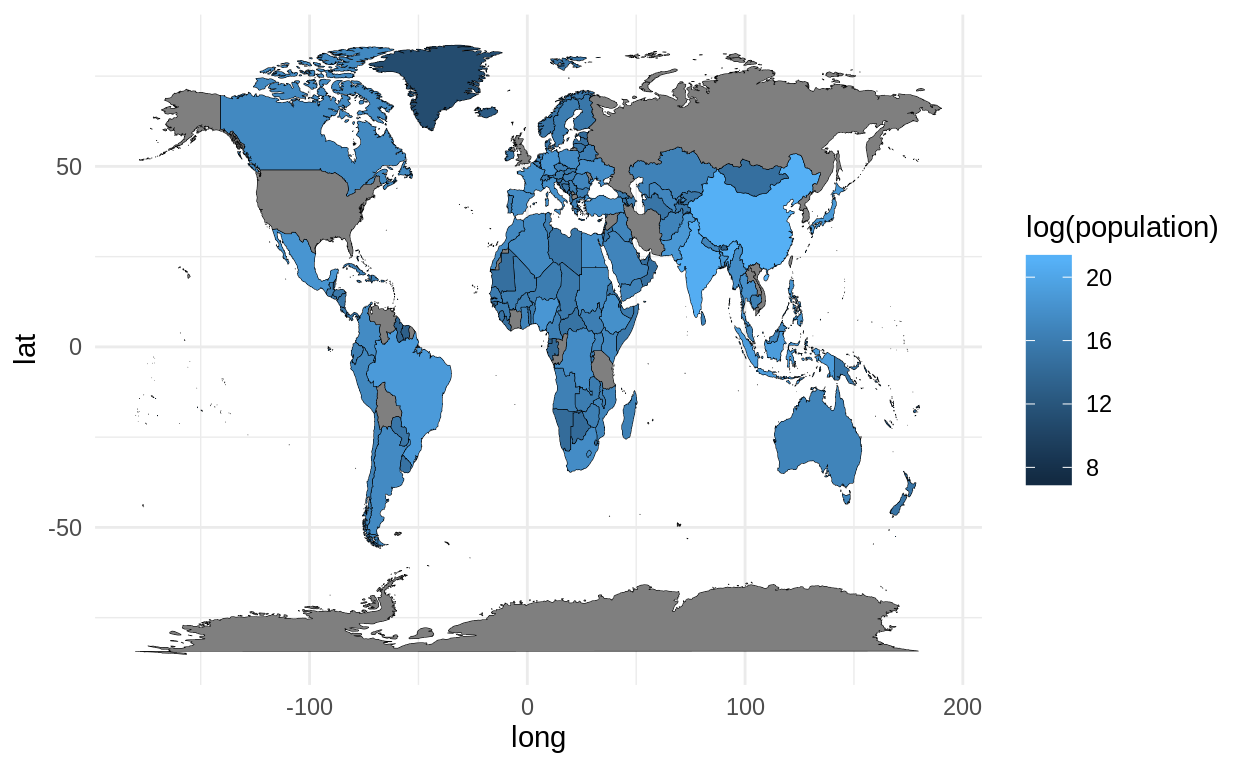
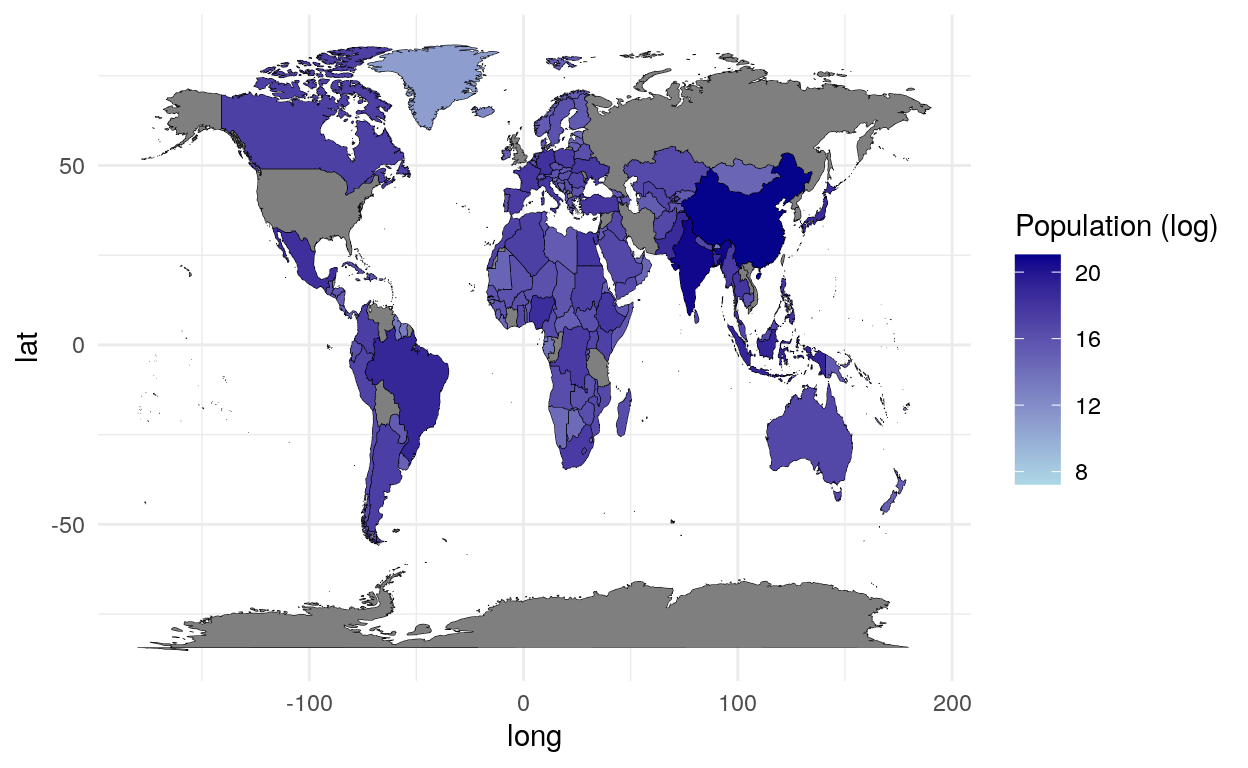
deprecated

diff --git a/docs/posts/2019-11-29-map/index.html b/docs/posts/2019-11-29-map/index.html
@@ -26,8 +26,8 @@
 <link rel="canonical" href="https://shohei-doi.github.io/notes/posts/2019-11-29-map/"/>
 
 <!--  https://schema.org/Article -->
-<meta property="article:published" itemprop="datePublished" content="2019-11-30"/>
-<meta property="article:created" itemprop="dateCreated" content="2019-11-30"/>
+<meta property="article:published" itemprop="datePublished" content="2020-04-24"/>
+<meta property="article:created" itemprop="dateCreated" content="2020-04-24"/>
 <meta name="article:author" content="土井　翔平"/>
 
 <!--  https://developers.facebook.com/docs/sharing/webmasters#markup -->
@@ -55,7 +55,7 @@
   <!--radix_placeholder_rmarkdown_metadata-->
 
 <script type="text/json" id="radix-rmarkdown-metadata">
-{"type":"list","attributes":{"names":{"type":"character","attributes":{},"value":["title","description","author","date","output","categories","twitter","canonical_url"]}},"value":[{"type":"character","attributes":{},"value":["データの可視化：地図"]},{"type":"character","attributes":{},"value":["Rで地図や空間データのグラフを作成する方法を紹介します。"]},{"type":"list","attributes":{},"value":[{"type":"list","attributes":{"names":{"type":"character","attributes":{},"value":["name","affiliation"]}},"value":[{"type":"character","attributes":{},"value":["土井　翔平"]},{"type":"character","attributes":{},"value":["国立情報学研究所"]}]}]},{"type":"character","attributes":{},"value":["2019-11-30"]},{"type":"list","attributes":{"names":{"type":"character","attributes":{},"value":["distill::distill_article"]}},"value":[{"type":"list","attributes":{"names":{"type":"character","attributes":{},"value":["self_contained","toc","toc_depth"]}},"value":[{"type":"logical","attributes":{},"value":[false]},{"type":"logical","attributes":{},"value":[true]},{"type":"integer","attributes":{},"value":[2]}]}]},{"type":"character","attributes":{},"value":["data analysis","data visualization"]},{"type":"list","attributes":{"names":{"type":"character","attributes":{},"value":["creator"]}},"value":[{"type":"character","attributes":{},"value":["@sdoi0504"]}]},{"type":"character","attributes":{},"value":["https://shohei-doi.github.io/notes/posts/2019-11-29-map/"]}]}
+{"type":"list","attributes":{"names":{"type":"character","attributes":{},"value":["title","description","author","date","output","categories","twitter","canonical_url"]}},"value":[{"type":"character","attributes":{},"value":["データの可視化：地図"]},{"type":"character","attributes":{},"value":["Rで地図や空間データのグラフを作成する方法を紹介します。"]},{"type":"list","attributes":{},"value":[{"type":"list","attributes":{"names":{"type":"character","attributes":{},"value":["name","affiliation"]}},"value":[{"type":"character","attributes":{},"value":["土井　翔平"]},{"type":"character","attributes":{},"value":["国立情報学研究所"]}]}]},{"type":"character","attributes":{},"value":["2020-04-24"]},{"type":"list","attributes":{"names":{"type":"character","attributes":{},"value":["distill::distill_article"]}},"value":[{"type":"list","attributes":{"names":{"type":"character","attributes":{},"value":["self_contained","toc","toc_depth"]}},"value":[{"type":"logical","attributes":{},"value":[false]},{"type":"logical","attributes":{},"value":[true]},{"type":"integer","attributes":{},"value":[2]}]}]},{"type":"character","attributes":{},"value":["data analysis","data visualization"]},{"type":"list","attributes":{"names":{"type":"character","attributes":{},"value":["creator"]}},"value":[{"type":"character","attributes":{},"value":["@sdoi0504"]}]},{"type":"character","attributes":{},"value":["https://shohei-doi.github.io/notes/posts/2019-11-29-map/"]}]}
 </script>
 <!--/radix_placeholder_rmarkdown_metadata-->
   
@@ -1297,7 +1297,7 @@ gtag('config', 'UA-75879658-3');
 <!--radix_placeholder_front_matter-->
 
 <script id="distill-front-matter" type="text/json">
-{"title":"データの可視化：地図","description":"Rで地図や空間データのグラフを作成する方法を紹介します。","authors":[{"author":"土井　翔平","authorURL":"#","affiliation":"国立情報学研究所","affiliationURL":"#"}],"publishedDate":"2019-11-30T00:00:00.000+09:00","citationText":"翔平, 2019"}
+{"title":"データの可視化：地図","description":"Rで地図や空間データのグラフを作成する方法を紹介します。","authors":[{"author":"土井　翔平","authorURL":"#","affiliation":"国立情報学研究所","affiliationURL":"#"}],"publishedDate":"2020-04-24T00:00:00.000+09:00","citationText":"翔平, 2020"}
 </script>
 
 <!--/radix_placeholder_front_matter-->
@@ -1328,7 +1328,7 @@ gtag('config', 'UA-75879658-3');
 <div class="d-byline">
   土井　翔平  (国立情報学研究所)
   
-<br/>2019-11-30
+<br/>2020-04-24
 </div>
 
 <div class="d-article">
@@ -1350,16 +1350,16 @@ gtag('config', 'UA-75879658-3');
 <pre class="r"><code>
 library(tidyverse)</code></pre>
 <pre><code>
-── Attaching packages ───────────────────────────────────────────────────────────── tidyverse 1.3.0 ──</code></pre>
+── Attaching packages ────────────────────────────────────────────────────────────────────────────────────────────────────────────────── tidyverse 1.3.0 ──</code></pre>
 <pre><code>
-✔ ggplot2 3.2.1     ✔ purrr   0.3.3
-✔ tibble  2.1.3     ✔ dplyr   0.8.3
-✔ tidyr   1.0.0     ✔ stringr 1.4.0
-✔ readr   1.3.1     ✔ forcats 0.4.0</code></pre>
+✓ ggplot2 3.3.0     ✓ purrr   0.3.4
+✓ tibble  3.0.1     ✓ dplyr   0.8.5
+✓ tidyr   1.0.2     ✓ stringr 1.4.0
+✓ readr   1.3.1     ✓ forcats 0.5.0</code></pre>
 <pre><code>
-── Conflicts ──────────────────────────────────────────────────────────────── tidyverse_conflicts() ──
-✖ dplyr::filter() masks stats::filter()
-✖ dplyr::lag()    masks stats::lag()</code></pre>
+── Conflicts ───────────────────────────────────────────────────────────────────────────────────────────────────────────────────── tidyverse_conflicts() ──
+x dplyr::filter() masks stats::filter()
+x dplyr::lag()    masks stats::lag()</code></pre>
 <pre class="r"><code>
 library(maps)</code></pre>
 <pre><code>
@@ -1445,7 +1445,7 @@ head(jpnprefs)</code></pre>
 <pre><code>
 # A tibble: 6 x 11
   jis_code prefecture capital region major_island prefecture_en capital_en region_en major_island_en
-  &lt;chr&gt;    &lt;chr&gt;      &lt;chr&gt;   &lt;chr&gt;  &lt;chr&gt;        &lt;chr&gt;         &lt;chr&gt;      &lt;chr&gt;     &lt;chr&gt;          
+  &lt;chr&gt;    &lt;fct&gt;      &lt;chr&gt;   &lt;chr&gt;  &lt;chr&gt;        &lt;chr&gt;         &lt;chr&gt;      &lt;chr&gt;     &lt;chr&gt;          
 1 01       北海道     札幌市  北海道 北海道       Hokkaido      Sapporo-s… Hokkaido  Hokkaido       
 2 02       青森県     青森市  東北   本州         Aomori-ken    Aomori-shi Tohoku    Honshu         
 3 03       岩手県     盛岡市  東北   本州         Iwate-ken     Morioka-s… Tohoku    Honshu         
@@ -1464,16 +1464,15 @@ Simple feature collection with 6 features and 4 fields
 geometry type:  POLYGON
 dimension:      XY
 bbox:           xmin: 135.6469 ymin: 34.96986 xmax: 135.8608 ymax: 35.32086
-epsg (SRID):    4326
-proj4string:    +proj=longlat +datum=WGS84 +no_defs
+CRS:            EPSG:4326
 # A tibble: 6 x 5
   pref_code prefecture city_code city                                                       geometry
   &lt;chr&gt;     &lt;chr&gt;      &lt;chr&gt;     &lt;chr&gt;                                                 &lt;POLYGON [°]&gt;
-1 26        京都府     26101     京都市 北区… ((135.7254 35.1709, 135.7309 35.16995, 135.7341 35.16225…
+1 26        京都府     26101     京都市 北区… ((135.7254 35.17089, 135.7309 35.16995, 135.7341 35.1622…
 2 26        京都府     26102     京都市 上京区… ((135.7507 35.03831, 135.7643 35.03754, 135.7699 35.0327…
-3 26        京都府     26103     京都市 左京区… ((135.8048 35.31718, 135.8088 35.31697, 135.8111 35.3140…
-4 26        京都府     26104     京都市 中京区… ((135.7319 35.02261, 135.7358 35.0189, 135.7412 35.02008…
-5 26        京都府     26105     京都市 東山区… ((135.7847 35.01045, 135.7912 35.00916, 135.7869 35.0056…
+3 26        京都府     26103     京都市 左京区… ((135.8048 35.31718, 135.8088 35.31696, 135.8111 35.3140…
+4 26        京都府     26104     京都市 中京区… ((135.7319 35.0226, 135.7357 35.01889, 135.7412 35.02008…
+5 26        京都府     26105     京都市 東山区… ((135.7847 35.01044, 135.7912 35.00916, 135.7868 35.0056…
 6 26        京都府     26106     京都市 下京区… ((135.7702 35.00438, 135.7716 35.00361, 135.7674 34.9927…</code></pre>
 </div>
 <p>今回は市区町村の境界線がsimple features (sf)と呼ばれる規格なので、<code>geom_sf()</code>を使います。</p>
@@ -1510,18 +1509,36 @@ pop2013 &lt;- population %&gt;%
 <ul>
 <li><code>population</code>では国名が<code>country</code>ですが、<code>world</code>では<code>region</code>なので、<code>rename()</code>で後者に合わせます。</li>
 </ul>
-<p>先程のデータと<code>world</code>をマージして、<code>aes()</code>の中の<code>fill</code>で塗り分けする変数を指定します。</p>
+<p>先程のデータと<code>world</code>をマージして、<code>aes()</code>の中の<code>fill</code>で塗り分けする変数を指定します。 それぞれのデータセットで国名が異なっているので、<code>coutnrycode</code>というパッケージでISOコードに合わせます。</p>
+<ul>
+<li><a href="https://dainachiba.github.io/">千葉大奈先生</a>にご指摘いただきました。</li>
+</ul>
 <div class="layout-chunk" data-layout="l-body">
+<pre class="r"><code>
+pop2013 &lt;- pop2013 %&gt;% 
+  mutate(iso3c = countrycode(sourcevar = region, origin = &quot;country.name&quot;, destination = &quot;iso3c&quot;))</code></pre>
+<pre><code>
+Error in countrycode(sourcevar = region, origin = &quot;country.name&quot;, destination = &quot;iso3c&quot;): could not find function &quot;countrycode&quot;</code></pre>
+<pre class="r"><code>
+world &lt;- world %&gt;% 
+  mutate(iso3c = countrycode(sourcevar = region, origin = &quot;country.name&quot;, destination = &quot;iso3c&quot;))</code></pre>
+<pre><code>
+Error in countrycode(sourcevar = region, origin = &quot;country.name&quot;, destination = &quot;iso3c&quot;): could not find function &quot;countrycode&quot;</code></pre>
+<pre class="r"><code>
+world %&gt;% 
+  filter(is.na(iso3c) == TRUE) %&gt;% 
+  select(region) %&gt;% 
+  distinct()</code></pre>
+<pre><code>
+Error: object &#39;iso3c&#39; not found</code></pre>
 <pre class="r"><code>
 left_join(world, pop2013, by = &quot;region&quot;) %&gt;% 
   ggplot() + 
   geom_polygon(aes(x = long, y = lat, group = group, fill = log(population)),
-               colour = &quot;black&quot;, size = 0.1)</code></pre>
+               colour = &quot;black&quot;, size = 0.1) + 
+  scale_fill_continuous(name = &quot;Population (log)&quot;, low = &quot;lightblue&quot;, high = &quot;darkblue&quot;)</code></pre>
 <p><img src="map_files/figure-html5/unnamed-chunk-12-1.png" width="624" /></p>
 </div>
-<aside>
-必ずしも両方のデータセットで国名が一致していないので、いくつか欠損していますが、ご容赦下さい。
-</aside>
 <p><code>geom_sf()</code>でも同じです。</p>
 <div class="layout-chunk" data-layout="l-body">
 <pre class="r"><code>
@@ -1730,7 +1747,8 @@ world %&gt;%
   geom_polygon(aes(x = long, y = lat, group = group), 
                fill = &quot;lightgray&quot;, colour = &quot;black&quot;, size = 0.1) + 
   geom_path(aes(x = long, y = lat, colour = hpa, group = id),
-            data = df_typhoon)</code></pre>
+            data = df_typhoon) + 
+  scale_colour_continuous(low = &quot;lightblue&quot;, high = &quot;darkblue&quot;)</code></pre>
 <p><img src="map_files/figure-html5/unnamed-chunk-23-1.png" width="624" /></p>
 </div>
 <ul>

diff --git a/_posts/2019-11-29-map/map.html b/_posts/2019-11-29-map/map.html
@@ -25,8 +25,8 @@
   
   
   <!--  https://schema.org/Article -->
-  <meta property="article:published" itemprop="datePublished" content="2019-11-30"/>
-  <meta property="article:created" itemprop="dateCreated" content="2019-11-30"/>
+  <meta property="article:published" itemprop="datePublished" content="2020-04-24"/>
+  <meta property="article:created" itemprop="dateCreated" content="2020-04-24"/>
   <meta name="article:author" content="土井　翔平"/>
   
   <!--  https://developers.facebook.com/docs/sharing/webmasters#markup -->
@@ -45,7 +45,7 @@
   <!--radix_placeholder_rmarkdown_metadata-->
   
   <script type="text/json" id="radix-rmarkdown-metadata">
-  {"type":"list","attributes":{"names":{"type":"character","attributes":{},"value":["title","description","author","date","output","categories","twitter"]}},"value":[{"type":"character","attributes":{},"value":["データの可視化：地図"]},{"type":"character","attributes":{},"value":["Rで地図や空間データのグラフを作成する方法を紹介します。\n"]},{"type":"list","attributes":{},"value":[{"type":"list","attributes":{"names":{"type":"character","attributes":{},"value":["name","affiliation"]}},"value":[{"type":"character","attributes":{},"value":["土井　翔平"]},{"type":"character","attributes":{},"value":["国立情報学研究所"]}]}]},{"type":"character","attributes":{},"value":["2019-11-30"]},{"type":"list","attributes":{"names":{"type":"character","attributes":{},"value":["distill::distill_article"]}},"value":[{"type":"list","attributes":{"names":{"type":"character","attributes":{},"value":["self_contained","toc","toc_depth"]}},"value":[{"type":"logical","attributes":{},"value":[false]},{"type":"logical","attributes":{},"value":[true]},{"type":"integer","attributes":{},"value":[2]}]}]},{"type":"character","attributes":{},"value":["data analysis","data visualization"]},{"type":"list","attributes":{"names":{"type":"character","attributes":{},"value":["creator"]}},"value":[{"type":"character","attributes":{},"value":["@sdoi0504"]}]}]}
+  {"type":"list","attributes":{"names":{"type":"character","attributes":{},"value":["title","description","author","date","output","categories","twitter"]}},"value":[{"type":"character","attributes":{},"value":["データの可視化：地図"]},{"type":"character","attributes":{},"value":["Rで地図や空間データのグラフを作成する方法を紹介します。\n"]},{"type":"list","attributes":{},"value":[{"type":"list","attributes":{"names":{"type":"character","attributes":{},"value":["name","affiliation"]}},"value":[{"type":"character","attributes":{},"value":["土井　翔平"]},{"type":"character","attributes":{},"value":["国立情報学研究所"]}]}]},{"type":"character","attributes":{},"value":["2020-04-24"]},{"type":"list","attributes":{"names":{"type":"character","attributes":{},"value":["distill::distill_article"]}},"value":[{"type":"list","attributes":{"names":{"type":"character","attributes":{},"value":["self_contained","toc","toc_depth"]}},"value":[{"type":"logical","attributes":{},"value":[false]},{"type":"logical","attributes":{},"value":[true]},{"type":"integer","attributes":{},"value":[2]}]}]},{"type":"character","attributes":{},"value":["data analysis","data visualization"]},{"type":"list","attributes":{"names":{"type":"character","attributes":{},"value":["creator"]}},"value":[{"type":"character","attributes":{},"value":["@sdoi0504"]}]}]}
   </script>
   <!--/radix_placeholder_rmarkdown_metadata-->
   
@@ -943,7 +943,7 @@
 <!--radix_placeholder_front_matter-->
 
 <script id="distill-front-matter" type="text/json">
-{"title":"データの可視化：地図","description":"Rで地図や空間データのグラフを作成する方法を紹介します。","authors":[{"author":"土井　翔平","authorURL":"#","affiliation":"国立情報学研究所","affiliationURL":"#"}],"publishedDate":"2019-11-30T00:00:00.000+09:00","citationText":"翔平, 2019"}
+{"title":"データの可視化：地図","description":"Rで地図や空間データのグラフを作成する方法を紹介します。","authors":[{"author":"土井　翔平","authorURL":"#","affiliation":"国立情報学研究所","affiliationURL":"#"}],"publishedDate":"2020-04-24T00:00:00.000+09:00","citationText":"翔平, 2020"}
 </script>
 
 <!--/radix_placeholder_front_matter-->
@@ -960,7 +960,7 @@
 <div class="d-byline">
   土井　翔平  (国立情報学研究所)
   
-<br/>2019-11-30
+<br/>2020-04-24
 </div>
 
 <div class="d-article">
@@ -982,16 +982,16 @@
 <pre class="r"><code>
 library(tidyverse)</code></pre>
 <pre><code>
-── Attaching packages ───────────────────────────────────────────────────────────── tidyverse 1.3.0 ──</code></pre>
+── Attaching packages ────────────────────────────────────────────────────────────────────────────────────────────────────────────────── tidyverse 1.3.0 ──</code></pre>
 <pre><code>
-✔ ggplot2 3.2.1     ✔ purrr   0.3.3
-✔ tibble  2.1.3     ✔ dplyr   0.8.3
-✔ tidyr   1.0.0     ✔ stringr 1.4.0
-✔ readr   1.3.1     ✔ forcats 0.4.0</code></pre>
+✓ ggplot2 3.3.0     ✓ purrr   0.3.4
+✓ tibble  3.0.1     ✓ dplyr   0.8.5
+✓ tidyr   1.0.2     ✓ stringr 1.4.0
+✓ readr   1.3.1     ✓ forcats 0.5.0</code></pre>
 <pre><code>
-── Conflicts ──────────────────────────────────────────────────────────────── tidyverse_conflicts() ──
-✖ dplyr::filter() masks stats::filter()
-✖ dplyr::lag()    masks stats::lag()</code></pre>
+── Conflicts ───────────────────────────────────────────────────────────────────────────────────────────────────────────────────── tidyverse_conflicts() ──
+x dplyr::filter() masks stats::filter()
+x dplyr::lag()    masks stats::lag()</code></pre>
 <pre class="r"><code>
 library(maps)</code></pre>
 <pre><code>
@@ -1077,7 +1077,7 @@ head(jpnprefs)</code></pre>
 <pre><code>
 # A tibble: 6 x 11
   jis_code prefecture capital region major_island prefecture_en capital_en region_en major_island_en
-  &lt;chr&gt;    &lt;chr&gt;      &lt;chr&gt;   &lt;chr&gt;  &lt;chr&gt;        &lt;chr&gt;         &lt;chr&gt;      &lt;chr&gt;     &lt;chr&gt;          
+  &lt;chr&gt;    &lt;fct&gt;      &lt;chr&gt;   &lt;chr&gt;  &lt;chr&gt;        &lt;chr&gt;         &lt;chr&gt;      &lt;chr&gt;     &lt;chr&gt;          
 1 01       北海道     札幌市  北海道 北海道       Hokkaido      Sapporo-s… Hokkaido  Hokkaido       
 2 02       青森県     青森市  東北   本州         Aomori-ken    Aomori-shi Tohoku    Honshu         
 3 03       岩手県     盛岡市  東北   本州         Iwate-ken     Morioka-s… Tohoku    Honshu         
@@ -1096,16 +1096,15 @@ Simple feature collection with 6 features and 4 fields
 geometry type:  POLYGON
 dimension:      XY
 bbox:           xmin: 135.6469 ymin: 34.96986 xmax: 135.8608 ymax: 35.32086
-epsg (SRID):    4326
-proj4string:    +proj=longlat +datum=WGS84 +no_defs
+CRS:            EPSG:4326
 # A tibble: 6 x 5
   pref_code prefecture city_code city                                                       geometry
   &lt;chr&gt;     &lt;chr&gt;      &lt;chr&gt;     &lt;chr&gt;                                                 &lt;POLYGON [°]&gt;
-1 26        京都府     26101     京都市 北区… ((135.7254 35.1709, 135.7309 35.16995, 135.7341 35.16225…
+1 26        京都府     26101     京都市 北区… ((135.7254 35.17089, 135.7309 35.16995, 135.7341 35.1622…
 2 26        京都府     26102     京都市 上京区… ((135.7507 35.03831, 135.7643 35.03754, 135.7699 35.0327…
-3 26        京都府     26103     京都市 左京区… ((135.8048 35.31718, 135.8088 35.31697, 135.8111 35.3140…
-4 26        京都府     26104     京都市 中京区… ((135.7319 35.02261, 135.7358 35.0189, 135.7412 35.02008…
-5 26        京都府     26105     京都市 東山区… ((135.7847 35.01045, 135.7912 35.00916, 135.7869 35.0056…
+3 26        京都府     26103     京都市 左京区… ((135.8048 35.31718, 135.8088 35.31696, 135.8111 35.3140…
+4 26        京都府     26104     京都市 中京区… ((135.7319 35.0226, 135.7357 35.01889, 135.7412 35.02008…
+5 26        京都府     26105     京都市 東山区… ((135.7847 35.01044, 135.7912 35.00916, 135.7868 35.0056…
 6 26        京都府     26106     京都市 下京区… ((135.7702 35.00438, 135.7716 35.00361, 135.7674 34.9927…</code></pre>
 </div>
 <p>今回は市区町村の境界線がsimple features (sf)と呼ばれる規格なので、<code>geom_sf()</code>を使います。</p>
@@ -1142,18 +1141,36 @@ pop2013 &lt;- population %&gt;%
 <ul>
 <li><code>population</code>では国名が<code>country</code>ですが、<code>world</code>では<code>region</code>なので、<code>rename()</code>で後者に合わせます。</li>
 </ul>
-<p>先程のデータと<code>world</code>をマージして、<code>aes()</code>の中の<code>fill</code>で塗り分けする変数を指定します。</p>
+<p>先程のデータと<code>world</code>をマージして、<code>aes()</code>の中の<code>fill</code>で塗り分けする変数を指定します。 それぞれのデータセットで国名が異なっているので、<code>coutnrycode</code>というパッケージでISOコードに合わせます。</p>
+<ul>
+<li><a href="https://dainachiba.github.io/">千葉大奈先生</a>にご指摘いただきました。</li>
+</ul>
 <div class="layout-chunk" data-layout="l-body">
+<pre class="r"><code>
+pop2013 &lt;- pop2013 %&gt;% 
+  mutate(iso3c = countrycode(sourcevar = region, origin = &quot;country.name&quot;, destination = &quot;iso3c&quot;))</code></pre>
+<pre><code>
+Error in countrycode(sourcevar = region, origin = &quot;country.name&quot;, destination = &quot;iso3c&quot;): could not find function &quot;countrycode&quot;</code></pre>
+<pre class="r"><code>
+world &lt;- world %&gt;% 
+  mutate(iso3c = countrycode(sourcevar = region, origin = &quot;country.name&quot;, destination = &quot;iso3c&quot;))</code></pre>
+<pre><code>
+Error in countrycode(sourcevar = region, origin = &quot;country.name&quot;, destination = &quot;iso3c&quot;): could not find function &quot;countrycode&quot;</code></pre>
+<pre class="r"><code>
+world %&gt;% 
+  filter(is.na(iso3c) == TRUE) %&gt;% 
+  select(region) %&gt;% 
+  distinct()</code></pre>
+<pre><code>
+Error: object &#39;iso3c&#39; not found</code></pre>
 <pre class="r"><code>
 left_join(world, pop2013, by = &quot;region&quot;) %&gt;% 
   ggplot() + 
   geom_polygon(aes(x = long, y = lat, group = group, fill = log(population)),
-               colour = &quot;black&quot;, size = 0.1)</code></pre>
+               colour = &quot;black&quot;, size = 0.1) + 
+  scale_fill_continuous(name = &quot;Population (log)&quot;, low = &quot;lightblue&quot;, high = &quot;darkblue&quot;)</code></pre>
 <p><img src="map_files/figure-html5/unnamed-chunk-12-1.png" width="624" /></p>
 </div>
-<aside>
-必ずしも両方のデータセットで国名が一致していないので、いくつか欠損していますが、ご容赦下さい。
-</aside>
 <p><code>geom_sf()</code>でも同じです。</p>
 <div class="layout-chunk" data-layout="l-body">
 <pre class="r"><code>
@@ -1362,7 +1379,8 @@ world %&gt;%
   geom_polygon(aes(x = long, y = lat, group = group), 
                fill = &quot;lightgray&quot;, colour = &quot;black&quot;, size = 0.1) + 
   geom_path(aes(x = long, y = lat, colour = hpa, group = id),
-            data = df_typhoon)</code></pre>
+            data = df_typhoon) + 
+  scale_colour_continuous(low = &quot;lightblue&quot;, high = &quot;darkblue&quot;)</code></pre>
 <p><img src="map_files/figure-html5/unnamed-chunk-23-1.png" width="624" /></p>
 </div>
 <ul>

diff --git a/docs/index.html b/docs/index.html
@@ -1623,6 +1623,19 @@ function init_posts_list() {
 <div class="posts-container posts-with-sidebar posts-apply-limit l-screen-inset">
 <div class="posts-list">
 <h1 class="posts-list-caption">ノート</h1>
+<a href="posts/2019-11-29-map/" class="post-preview">
+<script class="post-metadata" type="text/json">{"categories":["data analysis","data visualization"]}</script>
+<div class="metadata">
+<div class="publishedDate">April 23, 2020</div>
+</div>
+<div class="thumbnail">
+<img data-src="posts/2019-11-29-map/map_files/figure-html5/unnamed-chunk-4-1.png"/>
+</div>
+<div class="description">
+<h2>データの可視化：地図</h2>
+<p>Rで地図や空間データのグラフを作成する方法を紹介します。</p>
+</div>
+</a>
 <a href="posts/2019-06-19-ubuntu/" class="post-preview">
 <script class="post-metadata" type="text/json">{"categories":["Ubuntu","setup"]}</script>
 <div class="metadata">
@@ -1660,19 +1673,6 @@ function init_posts_list() {
 <div class="description">
 <h2>RとMeCabで分かち書き</h2>
 <p>RでMeCabによって分かち書きをしてQuantedaで分析できるようにします。</p>
-</div>
-</a>
-<a href="posts/2019-11-29-map/" class="post-preview">
-<script class="post-metadata" type="text/json">{"categories":["data analysis","data visualization"]}</script>
-<div class="metadata">
-<div class="publishedDate">Nov. 30, 2019</div>
-</div>
-<div class="thumbnail">
-<img data-src="posts/2019-11-29-map/map_files/figure-html5/unnamed-chunk-4-1.png"/>
-</div>
-<div class="description">
-<h2>データの可視化：地図</h2>
-<p>Rで地図や空間データのグラフを作成する方法を紹介します。</p>
 </div>
 </a>
 <a href="posts/2019-07-25-democratization-ml/" class="post-preview">
